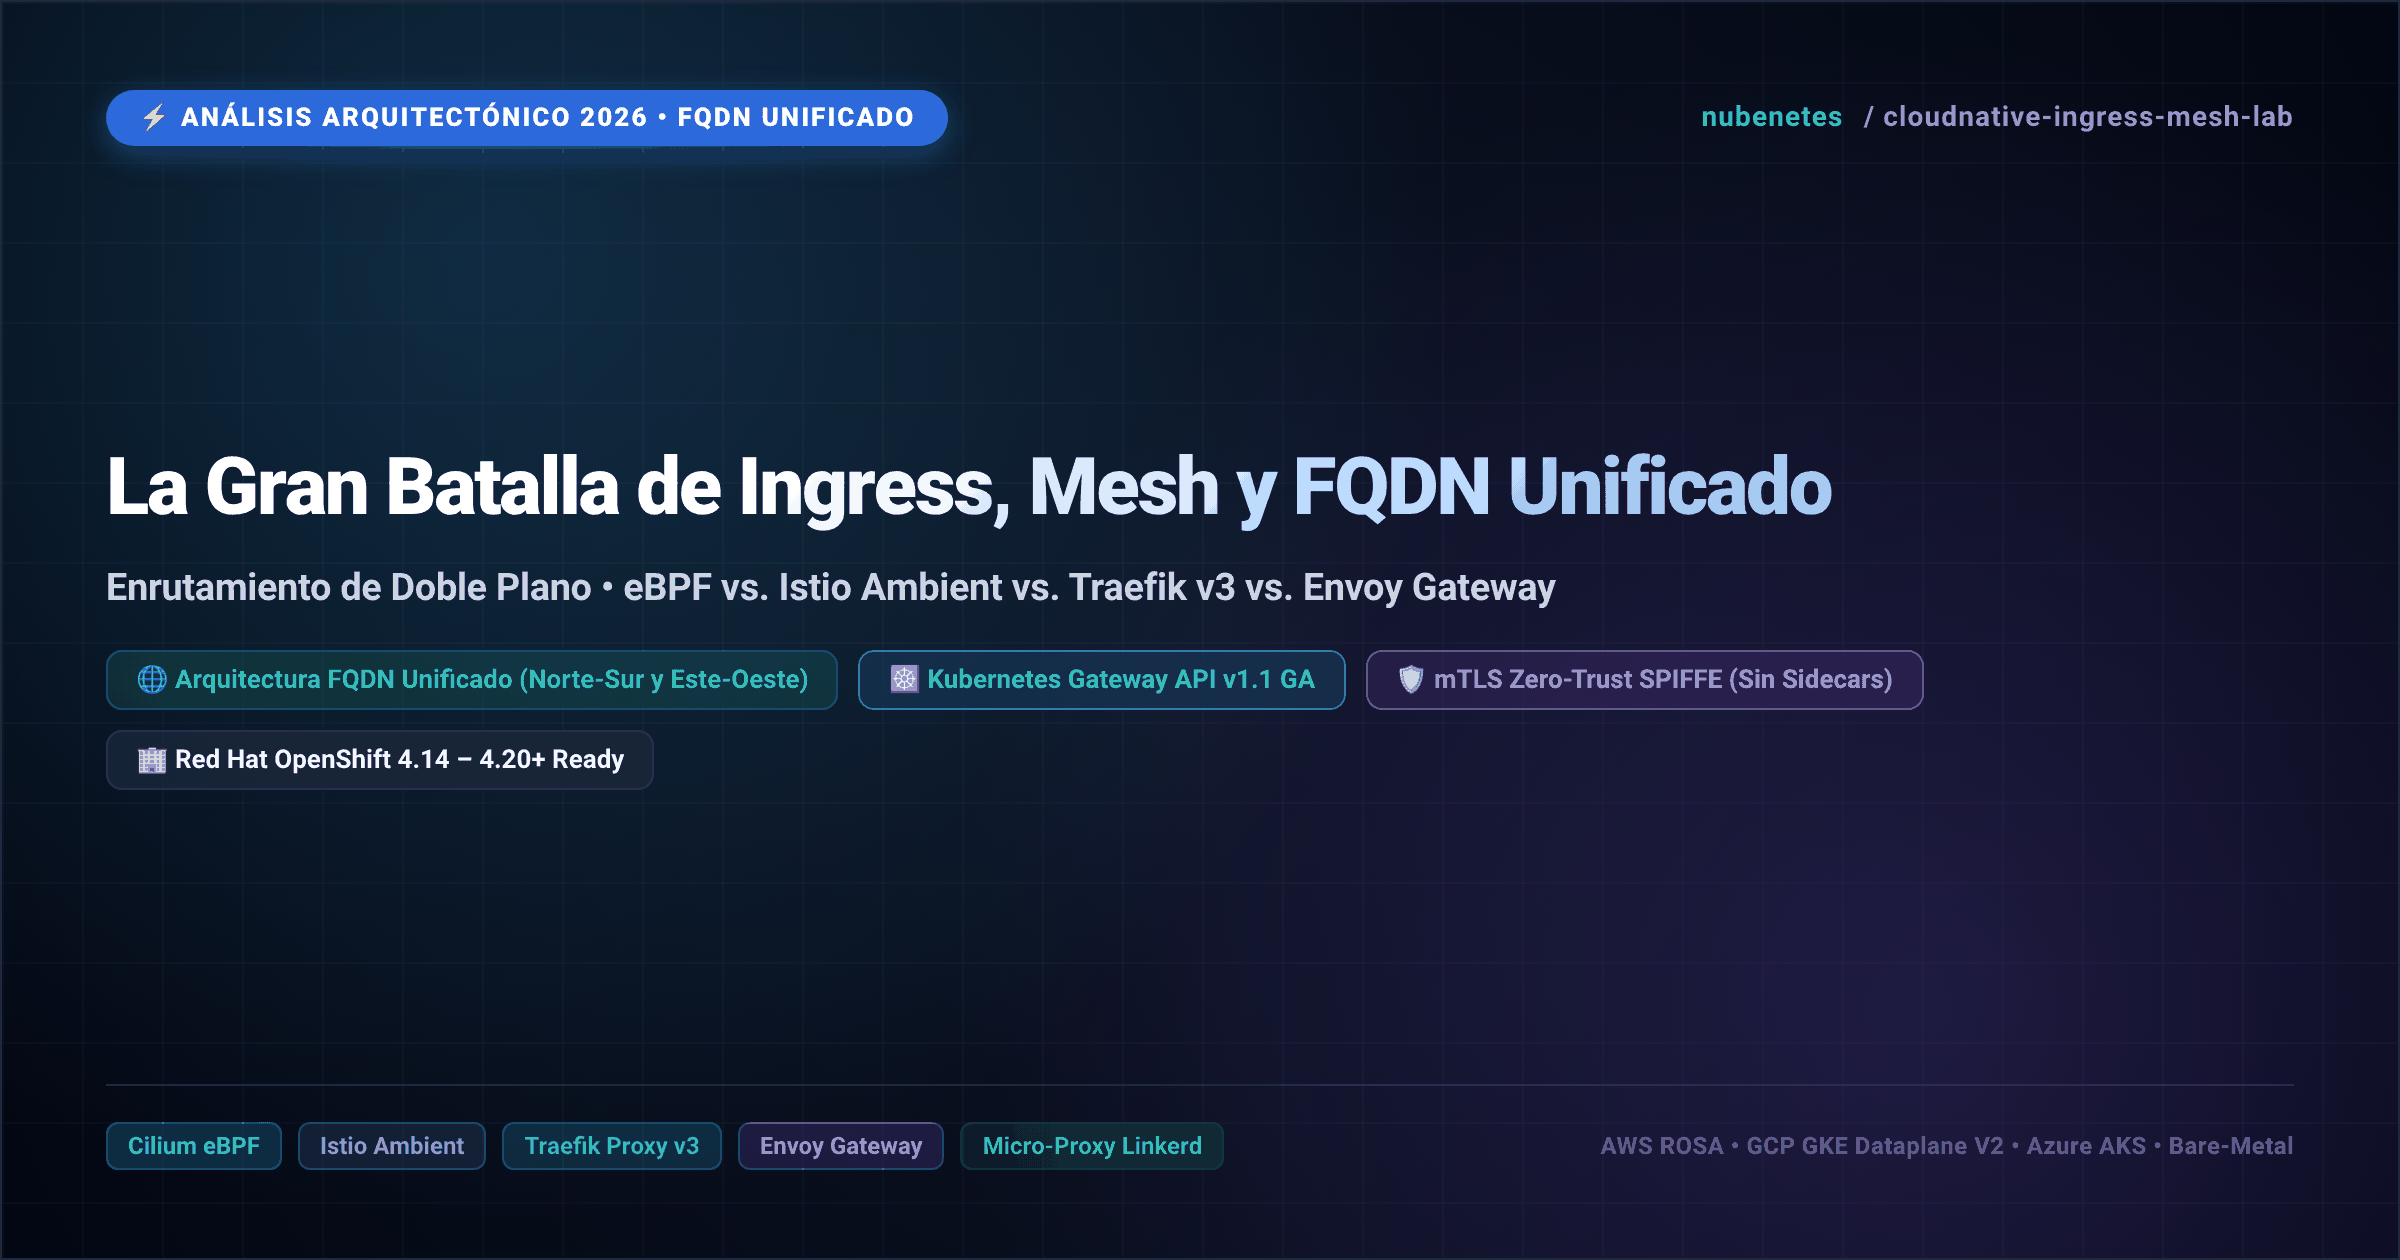
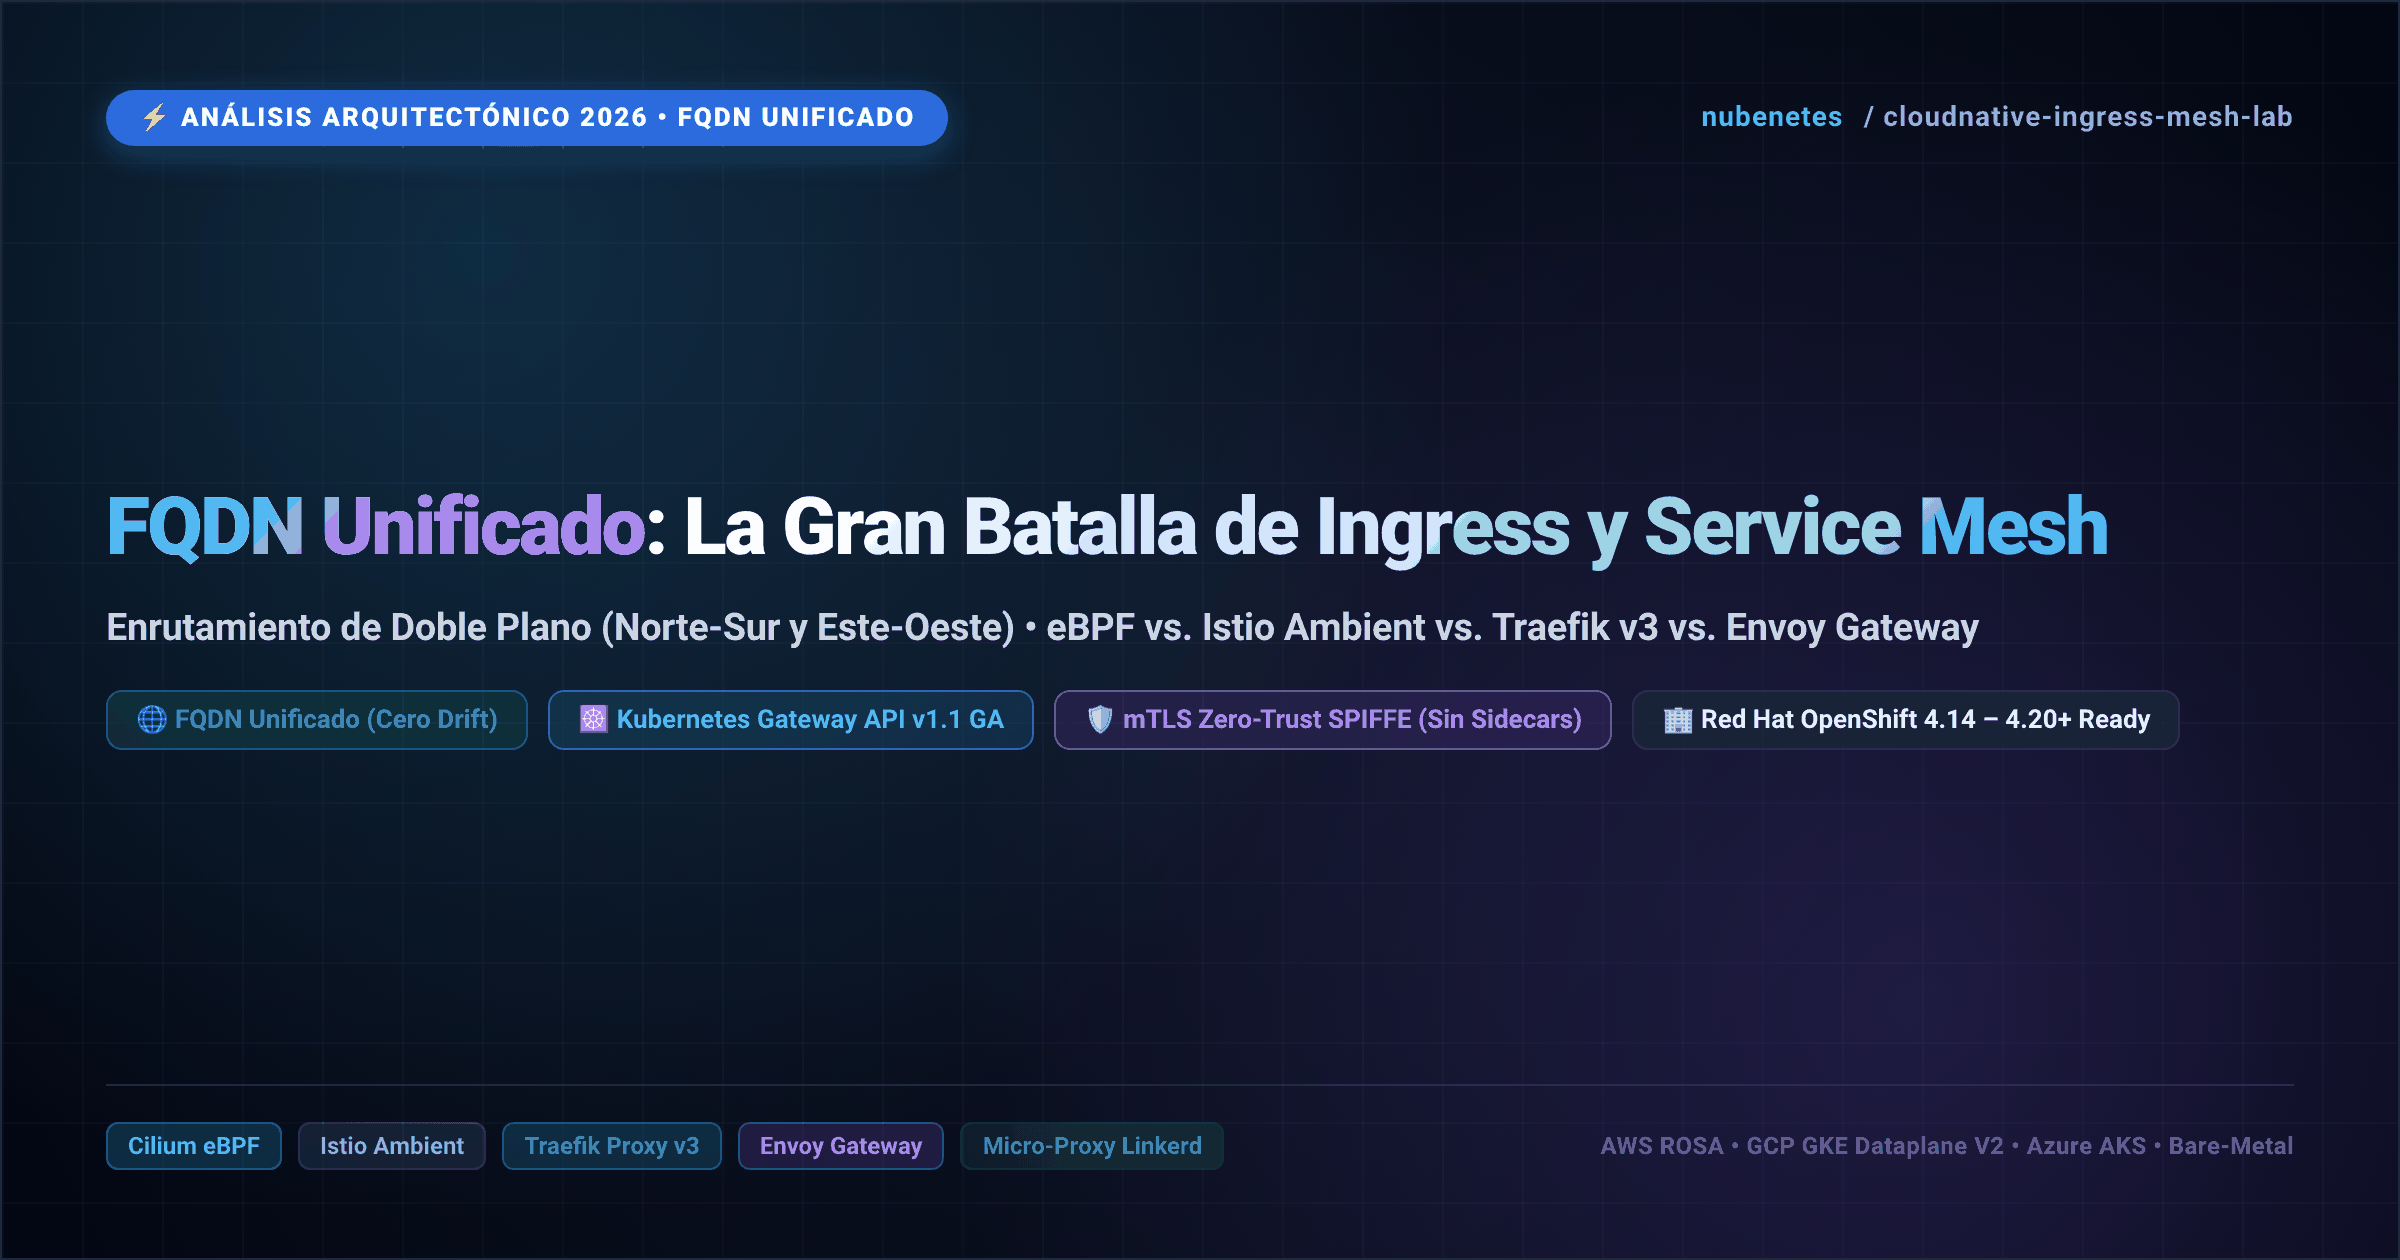
docs: position Unified FQDN / FQDN Unificado at the front of newsletter titles and cover headlines

diff --git a/LINKEDIN_NEWSLETTER_ES.md b/LINKEDIN_NEWSLETTER_ES.md
@@ -1,4 +1,4 @@
-# 🚀 La Gran Batalla de Ingress, Service Mesh y FQDN Unificado (Edición 2026): eBPF vs. Istio Ambient vs. Traefik v3 vs. Envoy Gateway vs. Linkerd
+# 🚀 FQDN Unificado: La Gran Batalla de Ingress y Service Mesh (Edición 2026) — eBPF vs. Istio Ambient vs. Traefik v3 vs. Envoy Gateway vs. Linkerd
 
 **Subtítulo:** *Por qué la Arquitectura de FQDN Unificado (Norte-Sur y Este-Oeste) es Fundamental, Dominando Kubernetes Gateway API v1.1 GA y el Fin de los Sidecars en Kubernetes y Red Hat OpenShift Empresarial*  
 **Autor:** Equipo de Arquitectura e Ingeniería de Plataformas Cloud-Native  
@@ -9,7 +9,7 @@
 
 ---
 
-![Portada del Newsletter: La Gran Batalla de Ingress, Mesh y FQDN Unificado](https://raw.githubusercontent.com/nubenetes/cloudnative-ingress-mesh-lab/main/docs/images/newsletter/cover_newsletter_es.png)  
+![Portada del Newsletter: FQDN Unificado: La Gran Batalla de Ingress y Service Mesh](https://raw.githubusercontent.com/nubenetes/cloudnative-ingress-mesh-lab/main/docs/images/newsletter/cover_newsletter_es.png)  
 *🔍 [Ver Imagen de Portada en Alta Resolución (1200x630)](https://raw.githubusercontent.com/nubenetes/cloudnative-ingress-mesh-lab/main/docs/images/newsletter/cover_newsletter_es.png)*
 
 ---

diff --git a/LINKEDIN_NEWSLETTER_EN.md b/LINKEDIN_NEWSLETTER_EN.md
@@ -1,4 +1,4 @@
-# 🚀 The Great Ingress, Service Mesh & Unified FQDN Showdown (2026 Edition): eBPF vs. Istio Ambient vs. Traefik v3 vs. Envoy Gateway vs. Linkerd
+# 🚀 Unified FQDN: The Great Ingress & Service Mesh Showdown (2026 Edition) — eBPF vs. Istio Ambient vs. Traefik v3 vs. Envoy Gateway vs. Linkerd
 
 **Subtitle:** *Why Unified FQDN (North-South & East-West) is Essential, Navigating Kubernetes Gateway API v1.1 GA, and the Elimination of the Sidecar Tax in Enterprise Kubernetes & Red Hat OpenShift*  
 **Author:** Cloud-Native Platform Engineering Architecture Team  
@@ -9,7 +9,7 @@
 
 ---
 
-![Cover Banner: The Great Ingress, Mesh & Unified FQDN Showdown](https://raw.githubusercontent.com/nubenetes/cloudnative-ingress-mesh-lab/main/docs/images/newsletter/cover_newsletter_en.png)  
+![Cover Banner: Unified FQDN: Ingress & Service Mesh Showdown](https://raw.githubusercontent.com/nubenetes/cloudnative-ingress-mesh-lab/main/docs/images/newsletter/cover_newsletter_en.png)  
 *🔍 [View Full-Resolution Cover Image (1200x630)](https://raw.githubusercontent.com/nubenetes/cloudnative-ingress-mesh-lab/main/docs/images/newsletter/cover_newsletter_en.png)*
 
 ---
